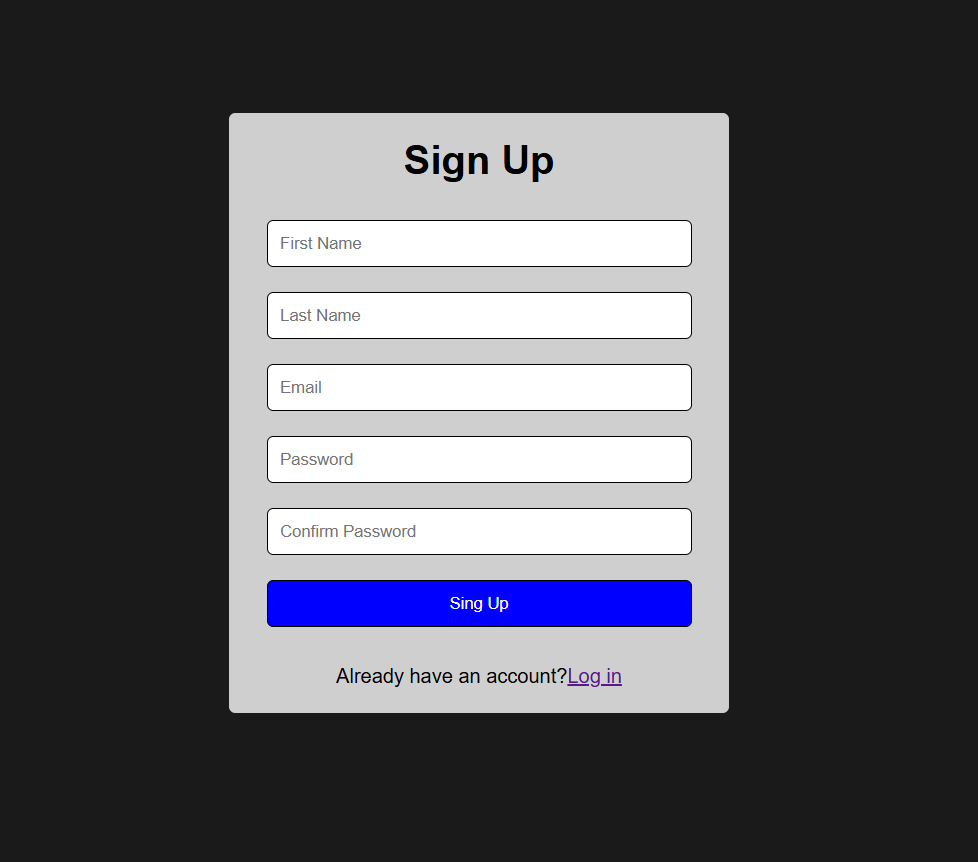
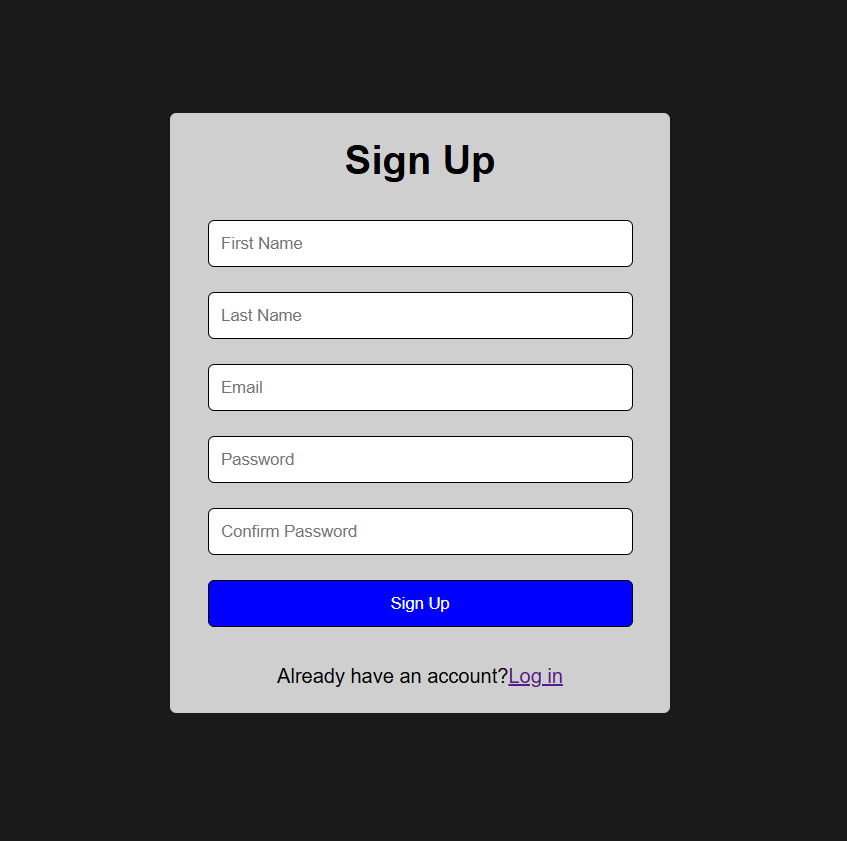
Fix typo in sign-up button text and added new preview image

Changed region(s): [[0.1842, 0.1237, 0.7981, 0.8656]]

diff --git a/index.html b/index.html
@@ -17,7 +17,7 @@
             <input type="email" name="email" id="email" placeholder="Email">
             <input type="password" name="password" id="password" placeholder="Password">
             <input type="password" name="password" id="password" placeholder="Confirm Password">
-            <button type="submit">Sing Up</button>
+            <button type="submit">Sign Up</button>
         </form>
         <footer>
             <p>Already have an account?<a href="#">Log in</a></p>
